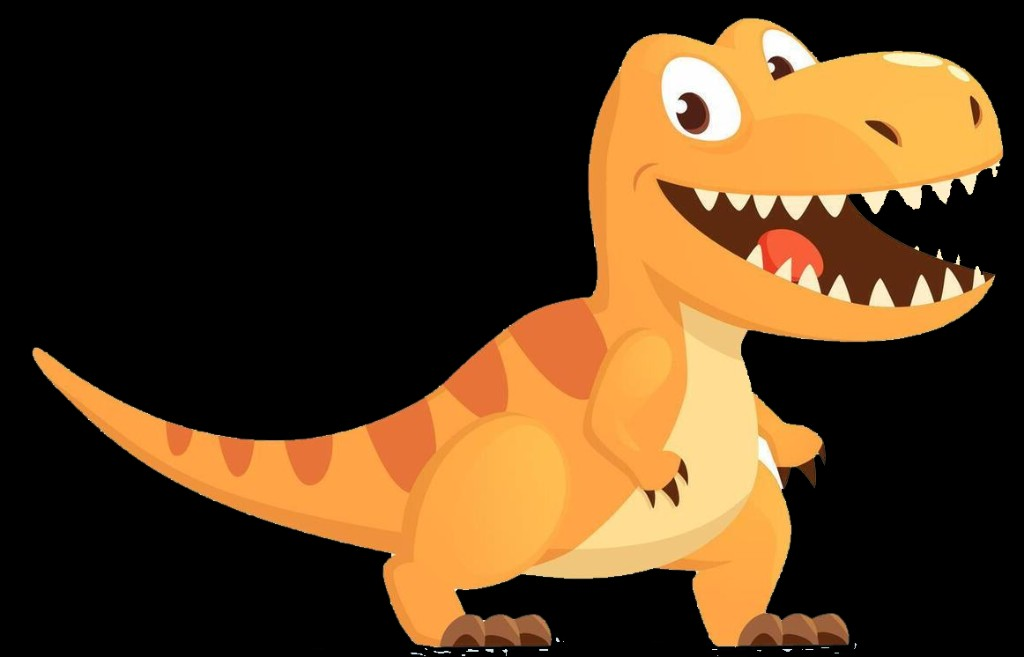
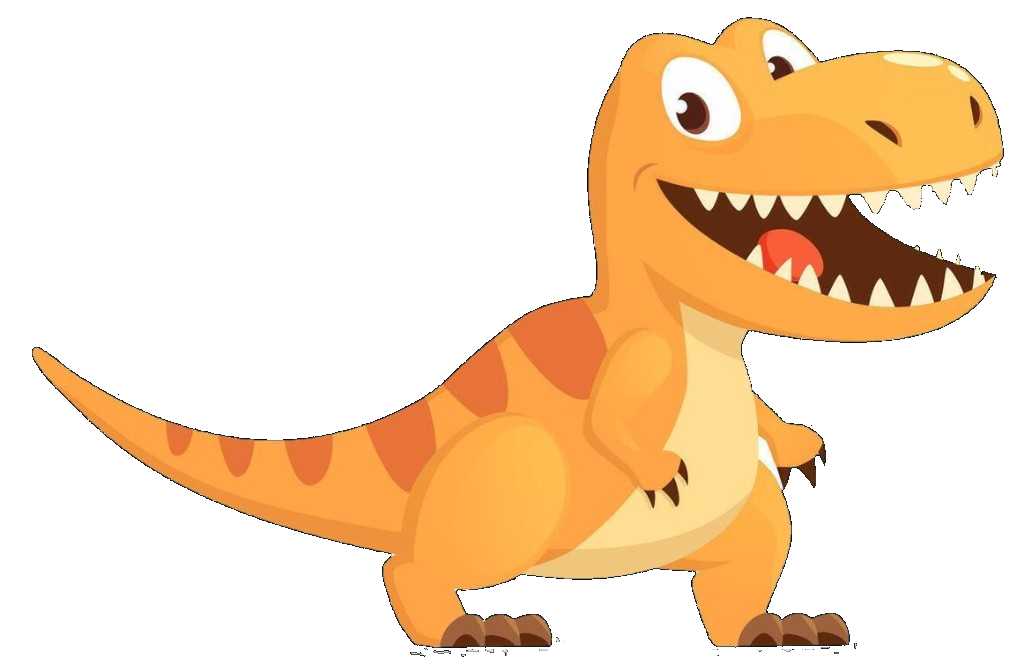
Math Race: transparent dino PNG + peek-from-left clip
- Matte black to alpha on math-race-dino.png.
- Narrow clip + translateX so only part of the dinosaur shows on track.
- Bump service worker cache to v113.

Made-with: Cursor

diff --git a/games/math-race.css b/games/math-race.css
@@ -1555,6 +1555,20 @@ html.kids-reduce-motion .race-canopy {
     drop-shadow(0 4px 6px rgba(35, 75, 45, 0.35));
 }
 
+/* Transparent PNG + clipped “peek” — dinosaur chasing mostly just off-screen left */
+.race-runner--dino.race-runner__emoji--pic {
+  overflow: hidden;
+  width: clamp(2.85rem, 10vmin, 4.5rem);
+}
+
+.race-runner--dino.race-runner__emoji--pic .race-runner__pic {
+  width: clamp(7rem, 28vmin, 12.5rem) !important;
+  max-width: none;
+  max-height: clamp(9rem, 40vmin, 13.5rem);
+  transform-origin: 82% 92%;
+  transform: translateX(-54%) translateY(4%);
+}
+
 /* Extra bounce for the long-neck dino */
 .race-stage.is-dino .race-runner__emoji:not(.race-runner__emoji--pic) {
   animation: dino-idle 2.2s ease-in-out infinite;

diff --git a/sw.js b/sw.js
@@ -1,5 +1,5 @@
 /* Minimal offline shell — network-first, cache as fallback for same-origin */
-const CACHE = "jigsaw-kids-v112";
+const CACHE = "jigsaw-kids-v113";
 const SHELL = [
   "./index.html",
   "./manifest.json",
